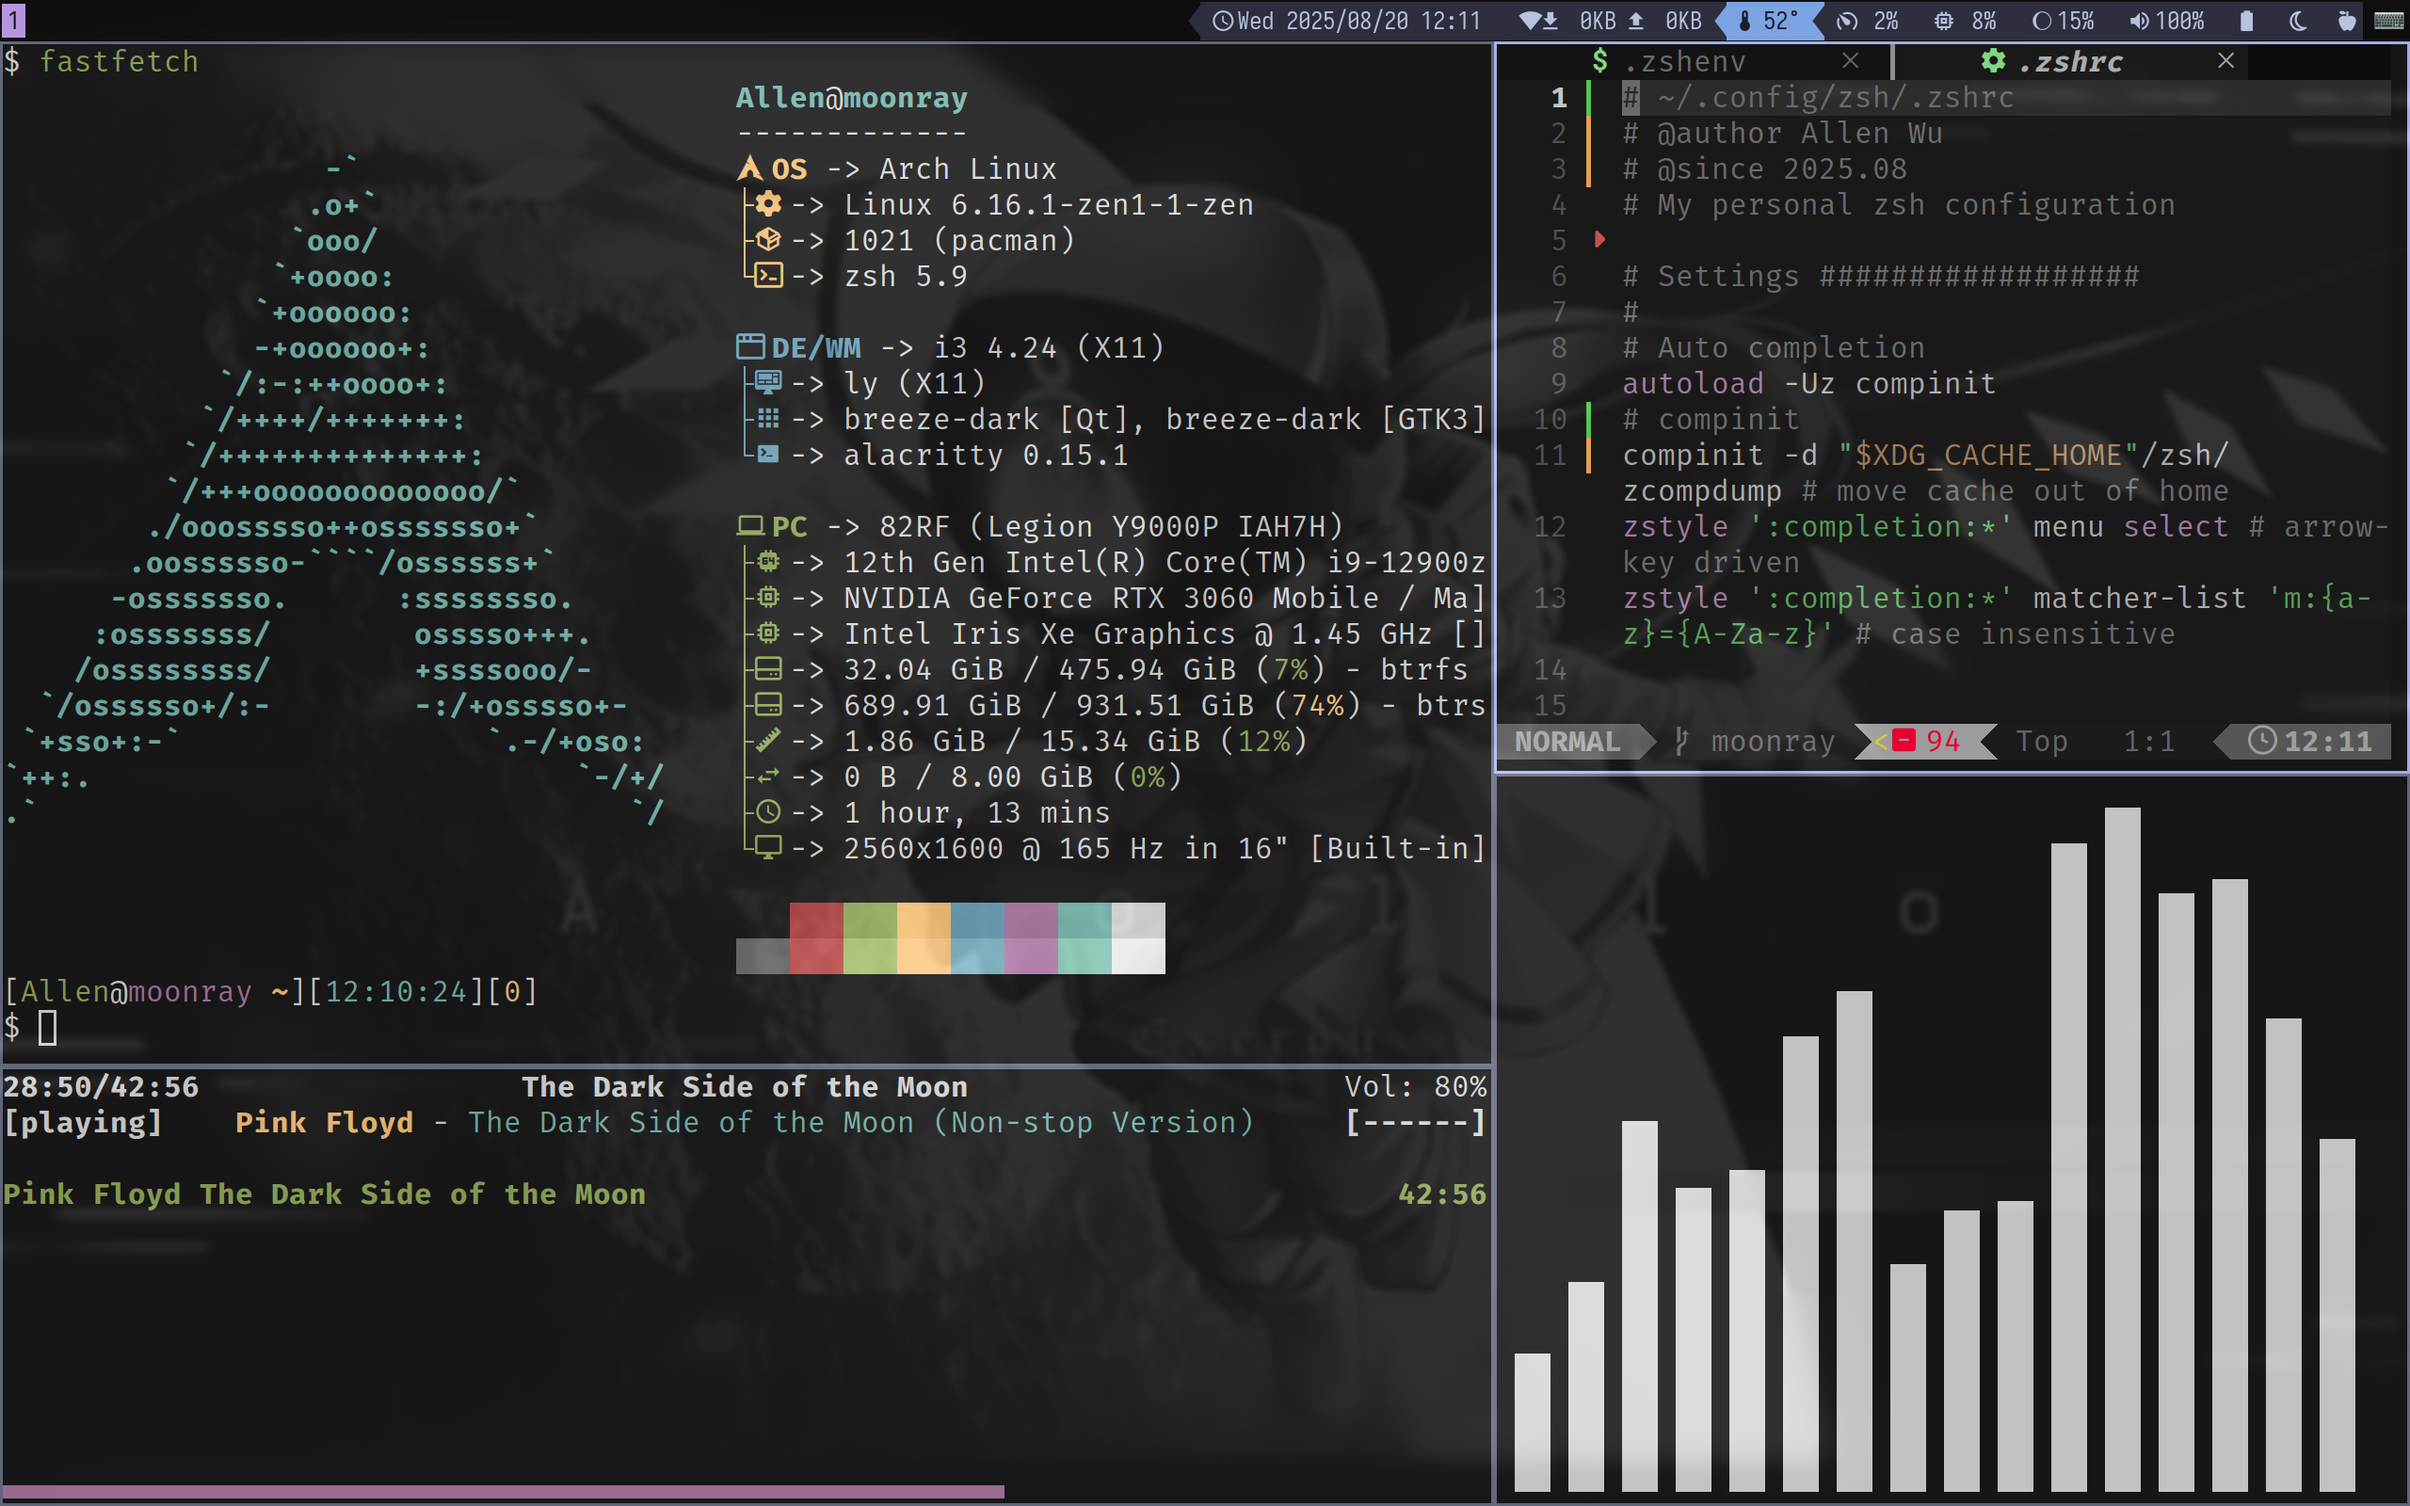
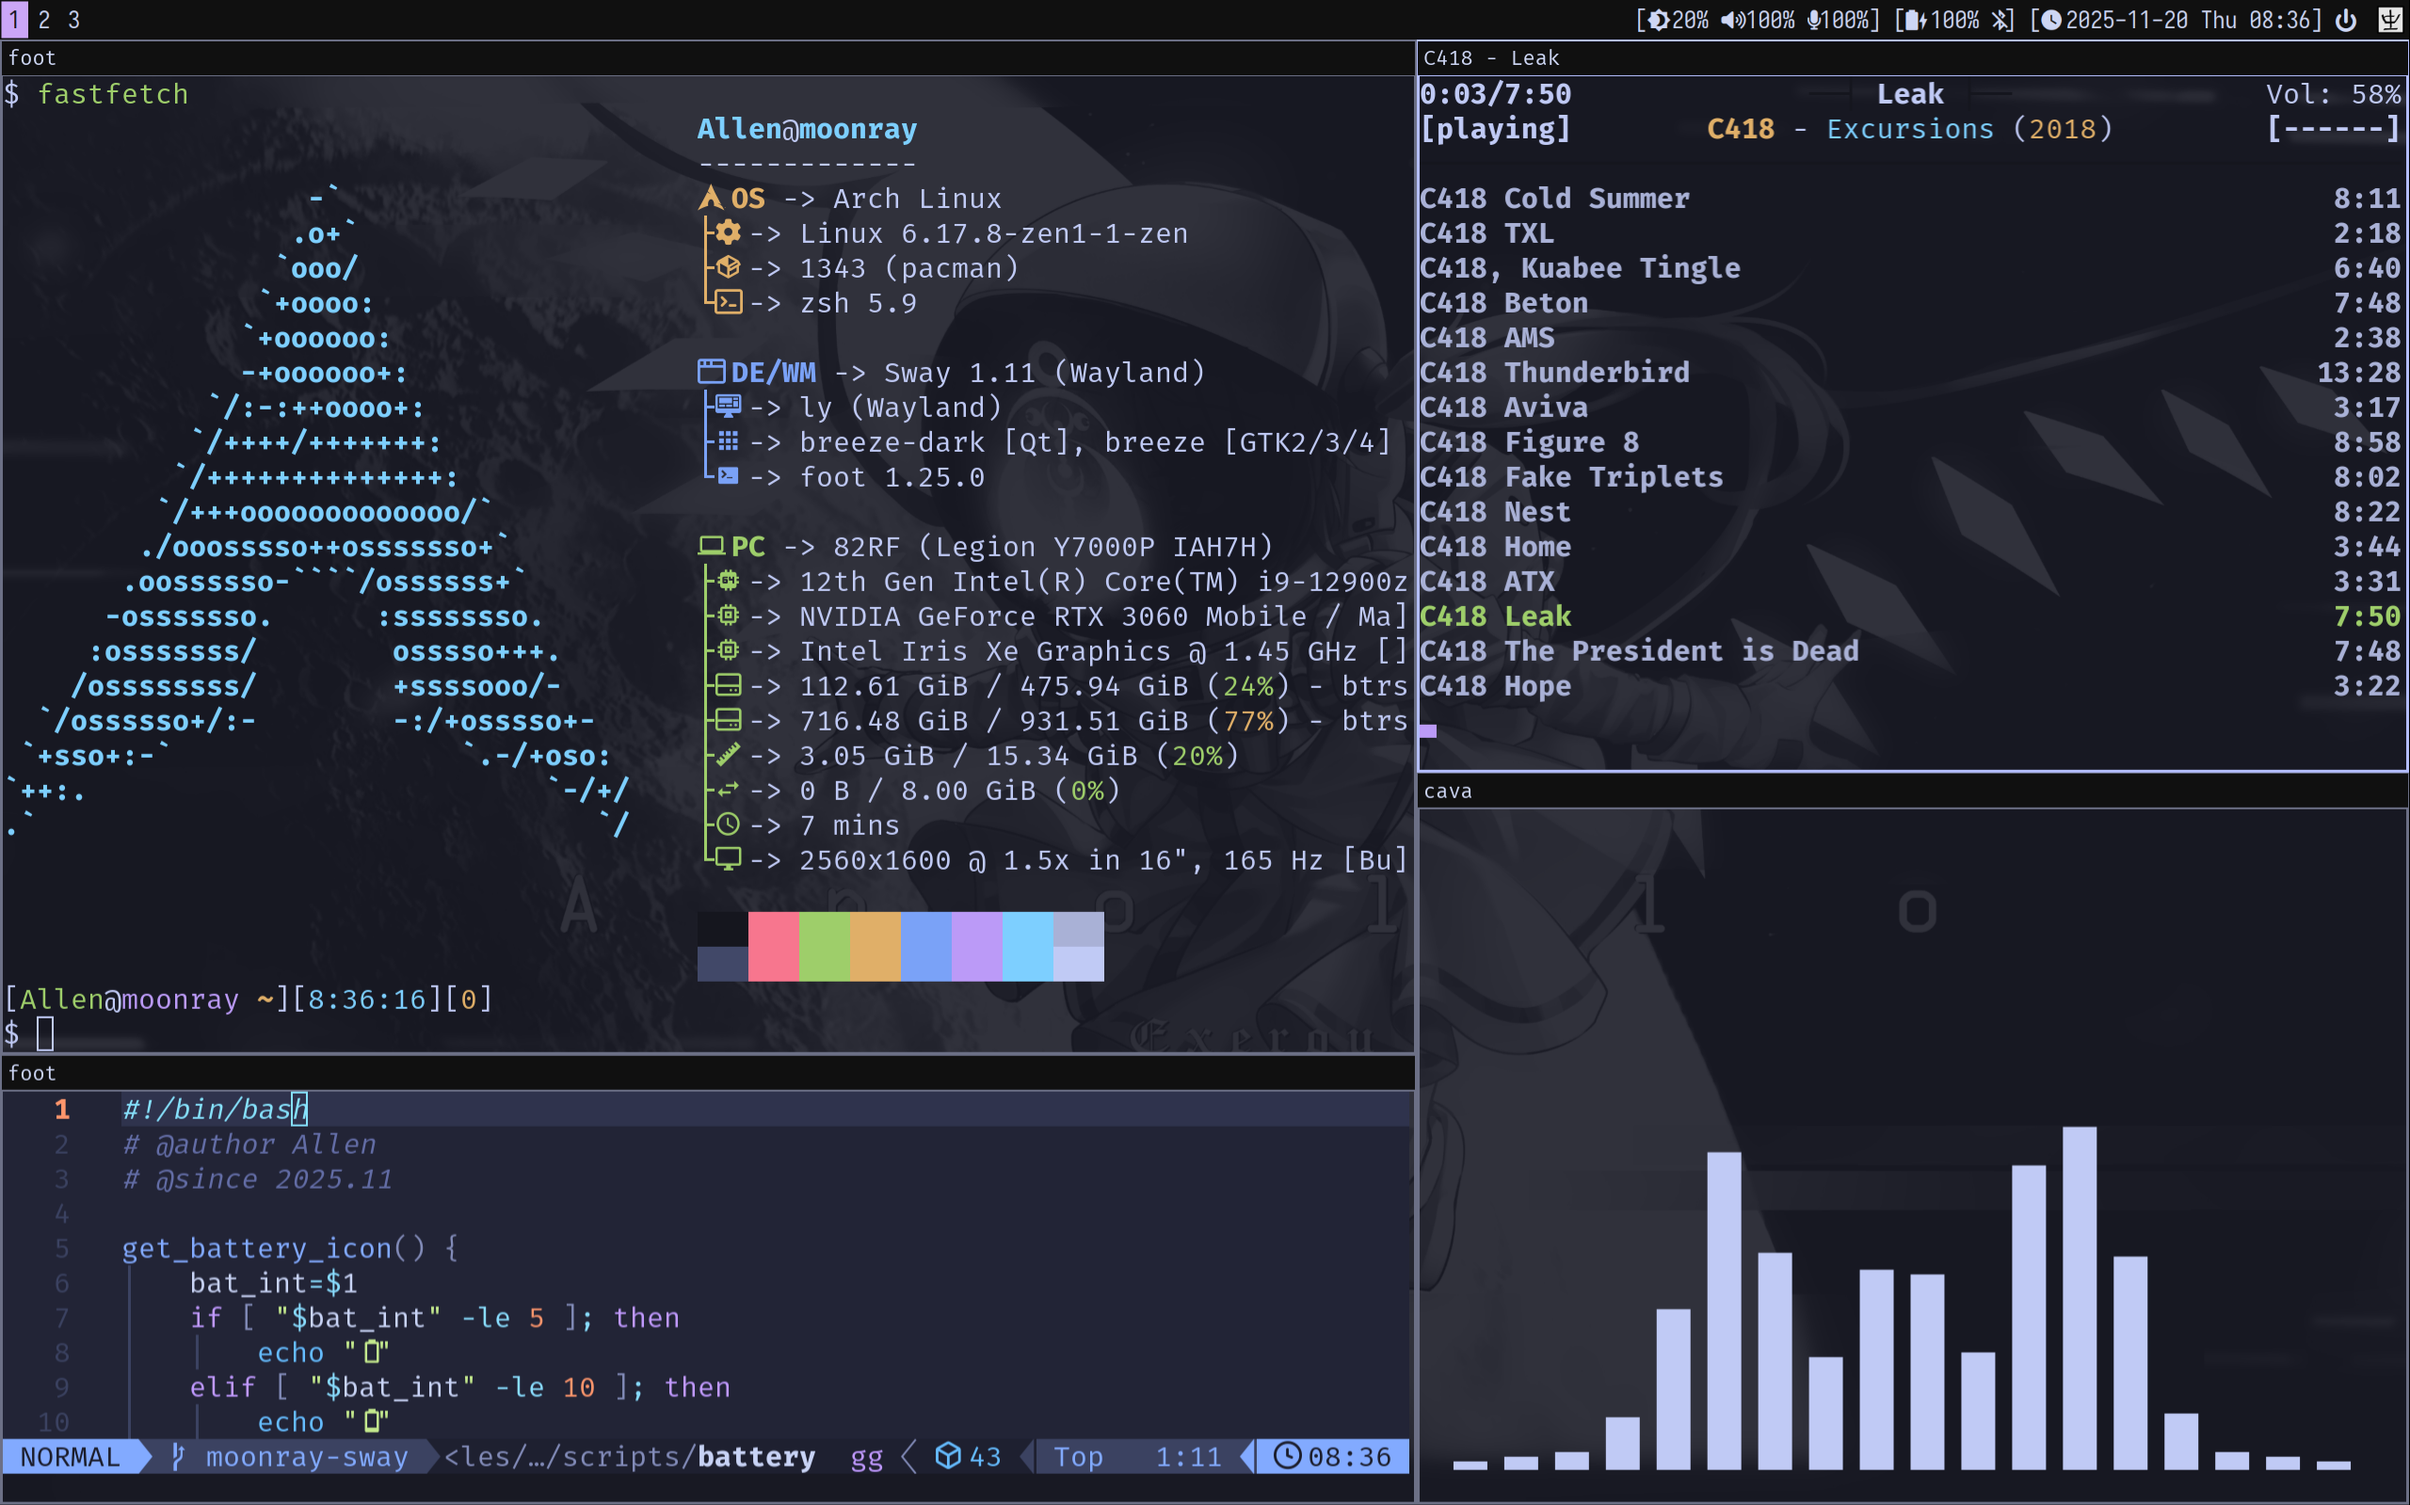
Update README.md screenshots

diff --git a/README.md b/README.md
@@ -2,7 +2,7 @@
 
 ## Overview
 
-I use Arch Linux + Niri and the repo is my configuration.
+My Arch Linux dotfiles.
 There is a list of the packages I have installed: ![pkglist.txt](pkglist.txt)
 
 ![fastfetch](screenshots/1.png)
@@ -11,4 +11,4 @@ There is a list of the packages I have installed: ![pkglist.txt](pkglist.txt)
 
 ## Introduction
 
-- WM: Niri
+- WM: Sway
